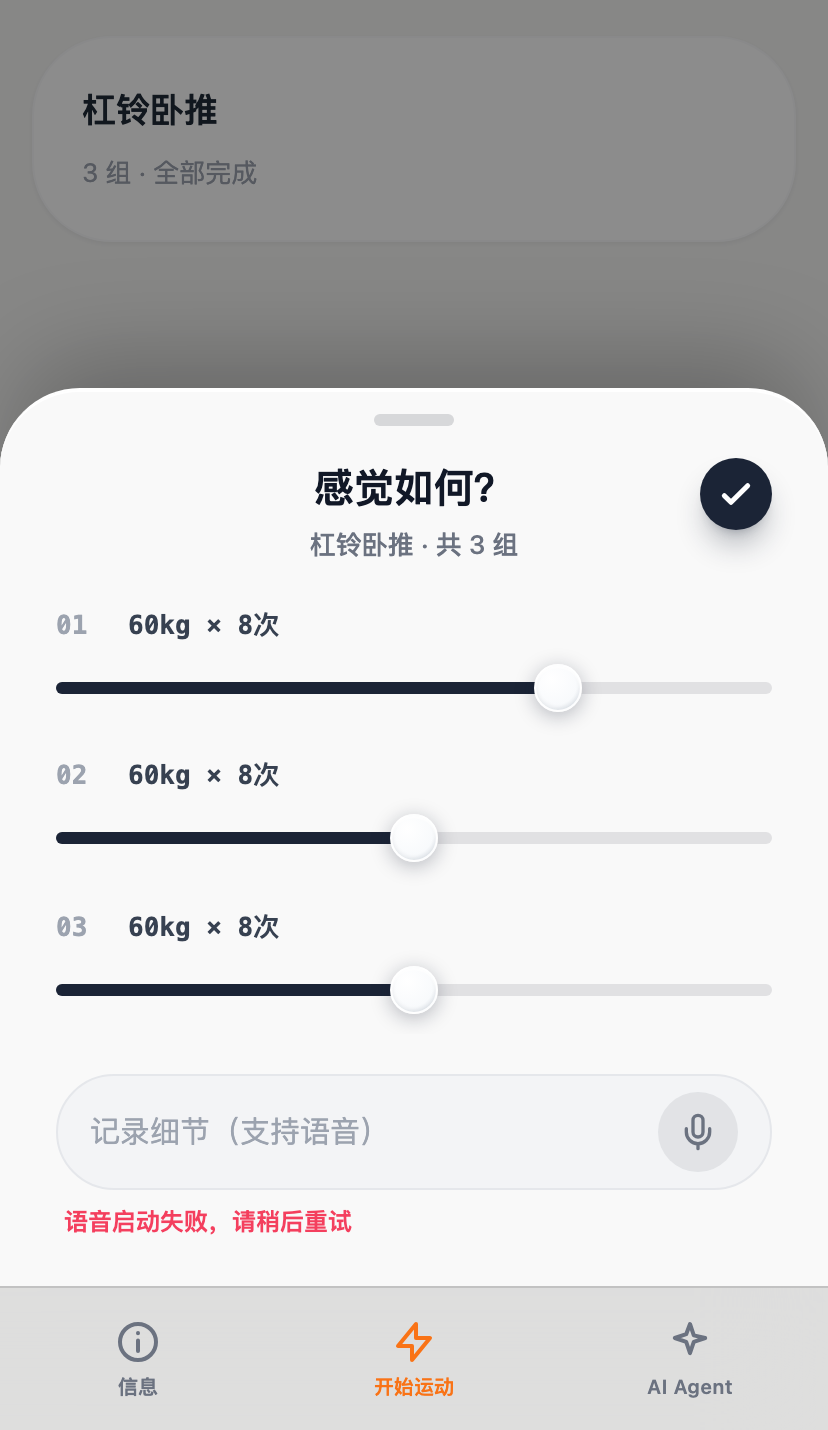
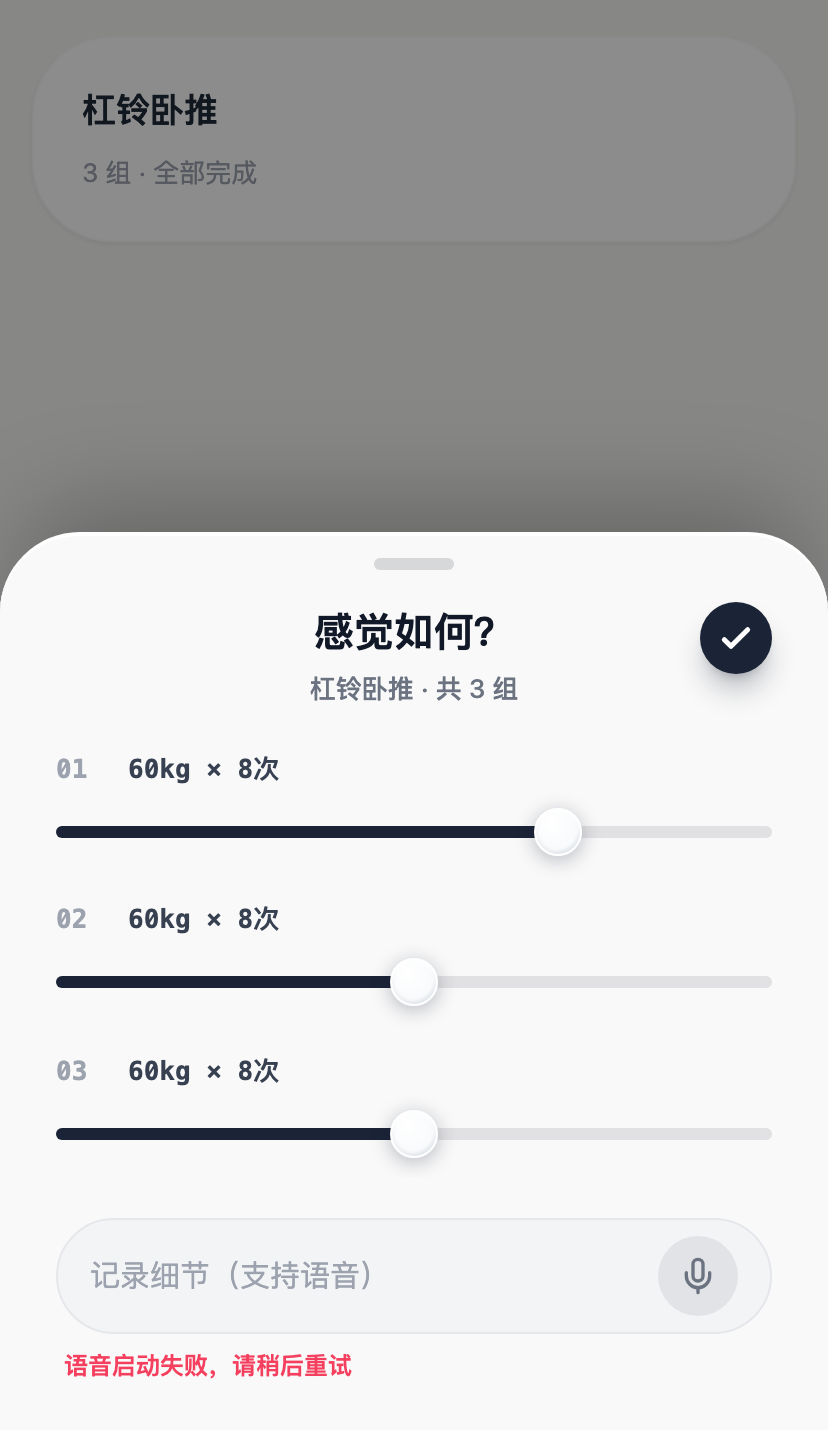
fix(feel): #119 TabBar 遮挡返工②——抬升避让改挂载隐藏/卸载恢复，表单贴底零空白带

diff --git a/src/components/execution/FeelModal.tsx b/src/components/execution/FeelModal.tsx
@@ -9,7 +9,7 @@ import {
   getSpeechPartial,
 } from '../../lib/speechInput';
 import { haptic } from '../../lib/nativeHaptics';
-import { isNativeTabBar } from '../../lib/nativeTabBar';
+import { setTabBarHidden } from '../../lib/nativeTabBar';
 import type {
   FeelModalGroup,
   FeelModalRow,
@@ -45,14 +45,6 @@ const SHEET_EASE: [number, number, number, number] = [0.32, 0.72, 0, 1];
 
 /** 越界输入夹回契约闭区间（防御层：原生 range 已钳制，这里保 payload 契约红线） */
 const clampFeel = (raw: number): number => Math.max(0, Math.min(100, Math.round(raw)));
-
-/**
- * 避让 iOS 原生 Tab Bar（#119 缺陷1，#104 BatchAddBanner 同款避让常量）：
- * 原生 bar 悬浮在 WebView 之上（Liquid Glass 常驻），z-index 无法穿透——sheet 底缘
- * 抬到 bar 顶沿（safe-area + 72px = MainTabBar body 避让常量）。CSS 回落端 tab bar
- * z-105 在本表单 z-[150] 之下，按项目「sheet 盖 tab」规范维持贴底不抬。
- */
-const TABBAR_CLEARANCE = 'calc(env(safe-area-inset-bottom, 0px) + 72px)';
 
 /** 语音启动失败提示的自动消退时长（ms）——失败可见但不打断表单语境 */
 const MIC_ERROR_TTL_MS = 3500;
@@ -208,6 +200,17 @@ export const FeelModal: React.FC<FeelModalProps> = ({ target, onConfirm, onSkip 
     }
   };
 
+  // Tab Bar 隐藏（#119 缺陷1 返工②：抬高避让被否决——留空白带）：原生 bar 悬浮在
+  // WebView 之上（Liquid Glass），z-index 无法穿透也不可被 sheet 覆盖——改为挂载期间
+  // 隐藏、卸载恢复，表单贴底完整展示。setTabBarHidden 引用计数层叠安全（与结算闸门
+  // FeelGateAlert 叠开时，谁后开谁先关都归最后一个隐藏者恢复），生命周期同款模式 =
+  // FeelGateAlert / DeviationWarningModal；web 回落端 no-op（CSS tab bar z-105 在
+  // 本表单 z-[150] 之下，按项目「sheet 盖 tab」规范本就盖住）
+  useEffect(() => {
+    setTabBarHidden(true);
+    return () => setTabBarHidden(false);
+  }, []);
+
   // 卸载时兜底清理录音轮询、失败提示计时与原生会话（确认/跳过/父层条件卸载都走这里）
   useEffect(() => {
     return () => {
@@ -338,23 +341,22 @@ export const FeelModal: React.FC<FeelModalProps> = ({ target, onConfirm, onSkip 
       />
 
       {/* 底部 sheet：rounded-t-[40px] + glassEffect .regular 语义材质（中性白磨砂 + specular rim）。
-          iOS 原生端底缘抬到原生 Tab Bar 之上（#119 缺陷1：bottom-0 下半部被悬浮 WebView
-          之上的原生 bar 盖住，note 输入与后段滑块不可见不可点）；web 回落端维持贴底 */}
+          贴底零空白带（#119 缺陷1 返工②）：Tab Bar 已在挂载时隐藏（见上方 effect），
+          底缘直落屏幕底，paddingBottom 让出 home indicator 安全区 + 内容呼吸余量 */}
       <motion.div
         initial={{ y: '100%' }}
         animate={{ y: 0 }}
         exit={{ y: '100%' }}
         transition={{ duration: 0.42, ease: SHEET_EASE }}
         data-testid="feel-modal"
-        className="absolute inset-x-0 mx-auto w-full max-w-md rounded-t-[40px] border-t border-white"
+        className="absolute inset-x-0 bottom-0 mx-auto w-full max-w-md rounded-t-[40px] border-t border-white"
         style={{
-          bottom: isNativeTabBar ? TABBAR_CLEARANCE : 0,
           background: 'rgba(255,255,255,0.95)',
           backdropFilter: 'blur(24px)',
           WebkitBackdropFilter: 'blur(24px)',
           boxShadow: '0 -25px 50px -12px rgba(0,0,0,0.25), inset 0 1px 0 rgba(255,255,255,0.95)',
-          // 抬升端已让出安全区（底缘 = safe-area + 72px），只留内容呼吸余量
-          paddingBottom: isNativeTabBar ? '24px' : 'calc(env(safe-area-inset-bottom, 0px) + 24px)',
+          // home indicator 安全区 + 内容呼吸余量（表单贴底但内容不被指示条压住）
+          paddingBottom: 'calc(env(safe-area-inset-bottom, 0px) + 24px)',
         }}
       >
         {/* 抓手条 */}

diff --git a/src/components/execution/__tests__/FeelModal.test.tsx b/src/components/execution/__tests__/FeelModal.test.tsx
@@ -31,6 +31,16 @@ const speechMocks = vi.hoisted(() => ({
 
 vi.mock('../../../lib/speechInput', () => speechMocks);
 
+// Tab Bar 隐藏 spy（#119 缺陷1 返工②）：仅替换 setTabBarHidden，其余走真实模块
+// （jsdom 为 web 态，isNativeTabBar=false——组件直接调，模块内部自守卫）
+const { setTabBarHiddenMock } = vi.hoisted(() => ({
+  setTabBarHiddenMock: vi.fn(),
+}));
+vi.mock('../../../lib/nativeTabBar', async importOriginal => {
+  const actual = await importOriginal<typeof import('../../../lib/nativeTabBar')>();
+  return { ...actual, setTabBarHidden: setTabBarHiddenMock };
+});
+
 /** 3 组动作、第 1 组已填 70（回显），第 2/3 组未填（默认 50） */
 const actionTarget: FeelModalTarget = {
   groups: [{
@@ -127,6 +137,7 @@ describe('FeelModal（组后感受聚合表单 #98 v2）', () => {
     speechMocks.stopSpeechInput.mockReset().mockResolvedValue('');
     speechMocks.cancelSpeechInput.mockReset().mockResolvedValue(undefined);
     speechMocks.getSpeechPartial.mockReset().mockResolvedValue({ text: '', running: false });
+    setTabBarHiddenMock.mockClear();
   });
   afterEach(() => {
     vi.useRealTimers();
@@ -197,6 +208,23 @@ describe('FeelModal（组后感受聚合表单 #98 v2）', () => {
       const utils = renderModal(actionTarget);
       const patches = confirmAction(utils);
       patches.forEach(p => expect('feel_note' in p).toBe(false));
+    });
+  });
+
+  describe('Tab Bar 隐藏（#119 缺陷1 返工②：抬高避让被否决，挂载隐藏贴底展示）', () => {
+    it('挂载即隐藏原生 TabBar，卸载恢复（引用计数，与 FeelGateAlert 叠开安全）', () => {
+      const utils = renderModal(actionTarget);
+      expect(setTabBarHiddenMock).toHaveBeenCalledWith(true);
+      utils.unmount();
+      expect(setTabBarHiddenMock).toHaveBeenLastCalledWith(false);
+    });
+
+    it('表单贴底零空白带：sheet 底缘 = 视口底（不再有 safe-area+72px 抬升量）', () => {
+      const utils = renderModal(actionTarget);
+      const sheet = utils.getByTestId('feel-modal');
+      expect(sheet.style.bottom).toBe(''); // 不再有 inline bottom 抬升
+      expect(sheet.className).toContain('bottom-0'); // 贴底类回归（className 主导）
+      expect(sheet.style.paddingBottom).toContain('safe-area-inset-bottom'); // home indicator 安全区保留
     });
   });
 
